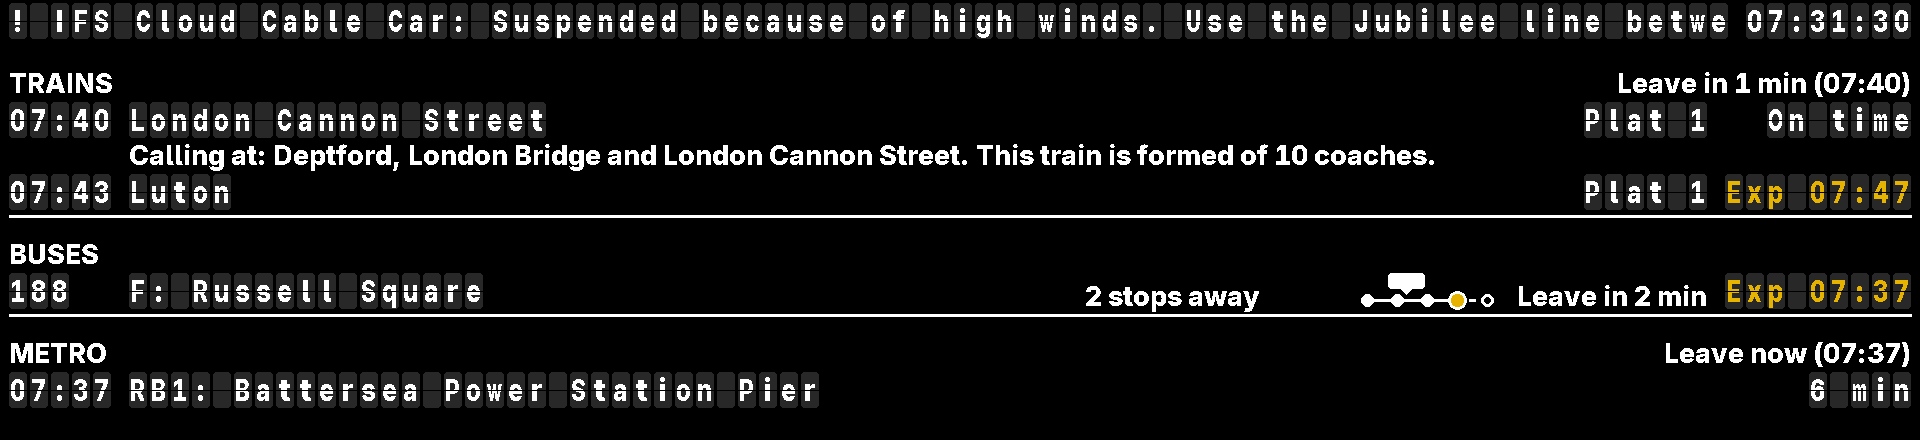
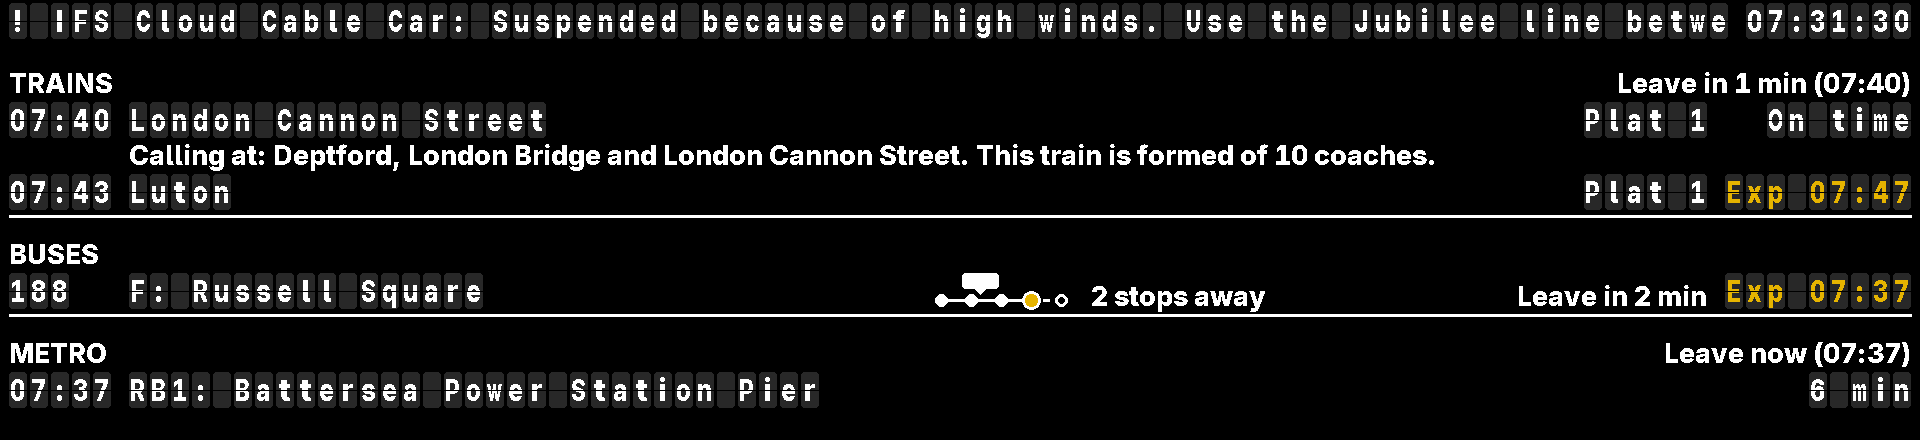
docs(board): describe the little line before the where words, and rebuild the screen pictures
reading-the-board.md says the line comes before the words, how a line's
room is shared, where the little lines line up, what the 7.9" screen
keeps, and the bar screen's stop names and route column in place of the
16-letter cap. The screen pictures with rows are drawn again with
tools/build_doc_images.py; e-paper, bus page, clock and tram pictures are
unchanged. CHANGELOG under Unreleased.

Changed region(s): [[0.4688, 0.6205, 0.6562, 0.7091], [0.6875, 0.6205, 0.7812, 0.7091]]

diff --git a/docs/reading-the-board.md b/docs/reading-the-board.md
@@ -111,7 +111,7 @@ On an HDMI screen only: white letters on dark grey tiles, each split across the 
 
 - `Exp 07:49` and `Delayed` in amber letters, and `Cancelled` in black on amber tiles. A cancelled train isn't on a highlighted bar: its tiles say it.
 - When a row's time, destination, platform or status changes, its tiles flip through to the new letters, as a flap board's do, in half a second. When the first train goes and the rows move up, each row flips to its new departure. The clock and the title change at once.
-- On the 7.9" screen a destination keeps 16 letters beside where its train is; a longer one, such as Manchester Piccadilly, scrolls, as a long notice does. The 11.3" bar screen keeps it whole.
+- On the 7.9" screen a destination keeps 15 letters before the little line of where its train is; a longer one, such as Manchester Piccadilly, scrolls, as a long notice does. The 11.3" bar screen keeps it whole.
 - `! NOT UPDATING` in amber next to TRAINS or BUSES, a rain warning or disruption notice in place of the title, and everything else the [HDMI screen](#the-hdmi-screen) shows, as in the plain look.
 
 ![The split-flap look on the 11.3 inch bar screen](images/screen-bar-flap.png)
@@ -141,7 +141,8 @@ The screen can redraw every second, so it shows a bit more. **What to show** on 
 - On the screen, a bus you can no longer reach on foot loses its leave time, rather than saying "Leave now".
 - **Platforms**, as on the bigger e-paper display.
 - **Calling at**, under the first train, as on a station's own screens: `Calling at: Dinting, Broadbottom, Hattersley, Godley and Manchester Piccadilly. This train is formed of 3 coaches.` It scrolls along its line (see below). **What to show**'s Everything has it and The usual doesn't, so tick **Calling at** if you want it. Stops the train no longer calls at are left out of the list and named after it (`Does not call at Hattersley.`), or alone when it no longer calls at any, the coaches are left unsaid when National Rail doesn't give them, a rail replacement bus says `This is a replacement bus.`, and a ferry `This is a ferry.` A cancelled train has no line. In the station board look it starts under the train's time, above `Leave in 3 min`, in smaller dots (capitals 5 dots tall, not 7), as the leave line under a train is on the 7.9" screen; in the plain, TFT and split-flap looks, under the destination, in smaller type. On the bar screen the station board look leaves out the dotted rule over the bottom line to keep its third bus. To get the calling points, a screen asks National Rail for the board with them, the same request with more in its answer. E-paper doesn't show it: it can't scroll.
-- **Where each train or bus is**, after its destination: in words (`At Dinting`, `3 stops away`, or `On its way, 6 min` and then `Bus in, waiting` for a bus coming in to work a departure from your stop, `Waiting to start` at the same journey's later stops while it is in there), then a little line of its stops, as on the dashboard. Trains say where they are only with a [Service Details key](keys.md#rail-data-marketplace-service-details); without one, only buses do. The line is solid up to your stop, which is the bigger one, and dotted after it; the train or bus is drawn over the line where it is, and not at all while the board doesn't know. The words say it all; the line only backs them up. A row the board knows nothing for, like a cancelled train or a bus with no live position, leaves the space blank.
+- **Where each train or bus is**, after its destination: a little line of its stops, as on the dashboard, then in words (`At Dinting`, `3 stops away`, or `On its way, 6 min` and then `Bus in, waiting` for a bus coming in to work a departure from your stop, `Waiting to start` at the same journey's later stops while it is in there). Trains say where they are only with a [Service Details key](keys.md#rail-data-marketplace-service-details); without one, only buses do. The line is solid up to your stop, which is the bigger one, and dotted after it; the train or bus is drawn over the line where it is, and not at all while the board doesn't know. The words say it all; the line only backs them up. A row the board knows nothing for, like a cancelled train or a bus with no live position, leaves the space blank.
+- **How a line's room is shared:** the words always have room for `3 stops away`; then the destination for a name like `Manchester Piccadilly` (a bus's `Ashton-under-Lyne`); then, on the bar screen, a bus's stop name; then the destination for one like `Heathrow Terminals 2 & 3`, the words for one like `Left Manchester Oxford Road`, and the destination whatever is left. Anything longer than its room scrolls. The little lines sit in one column down the board, except in the station board look on the bar screen, where the trains' and the buses' each sit against their own section's columns. On the 7.9" screen the words have little more than `3 stops away`, so longer ones scroll; in the station board and TFT looks there, lined up with the buses' lines beside their leave times, a destination as long as Manchester Piccadilly scrolls too.
 - In the station board look, a rain warning or disruption notice sits at the bottom left and the clock moves to the right. With both, they sit side by side: the notice on the left, the rain warning beside the clock. A dotted rule sets the bottom line off from the buses, as between trains and buses.
 - **The last bus:** in the hour before the day's last bus from your stops goes, `Last bus 23:05` sits on the bottom line the same way, from the bus timetable. A disruption notice or a rain warning takes its place while there is one. In the plain, TFT and split-flap looks it takes the title's place in the top bar, as they do. E-paper doesn't show it.
 - **Long text scrolls** rather than being cut short with `…`: a destination, the calling-at line, where a train or bus is, a disruption notice or a rain warning too long for its space shows from its start for 2 seconds, moves slowly left (about 3 letters a second, a dot at a time in the station board look) until its end is in view, waits 2 seconds, then starts again. Each stays inside its own space, and text that fits never moves. E-paper can't animate, so it still cuts long text short; so does the screen with **Scrolling text** off on the [General page](settings.md#general) of the settings (`scrolling = false`). The split-flap look's tiles still turn.
@@ -151,7 +152,7 @@ The screen can redraw every second, so it shows a bit more. **What to show** on 
 
 The bar screen shows the same as the 7.9" screen, with one line for each train or bus. In the station board look its text is a third bigger, and `Leave in 3 min` sits on its train's line, between the platform and the status, rather than on a line of its own under it; the plain, TFT and split-flap looks keep their text size and use the extra width. Either way there is room for 3 trains, 3 buses and the clock, or fewer of each with trams too.
 
-Each bus line also names its stop where other boards show its label: `341 Henry Street A Hyde` rather than `341 A Hyde` (in the plain look, rather than `A: Hyde`). The name comes from the bus timetable. It shows alone when none of your other stops has the same name, and with the label when two or more do, as Glossop's two Henry Street stops do. The names line up in a column as wide as the longest of your stops' names, up to about 16 letters; a longer name scrolls. While the board doesn't know a stop's name (buses from TransportAPI, or before the timetable is built), that line shows the label, as before. The 7.9" screen keeps the label: a name there would leave too little room for the destination.
+Each bus line also names its stop where other boards show its label: `341 Henry Street A Hyde` rather than `341 A Hyde` (in the plain look, rather than `A: Hyde`). The name comes from the bus timetable. It shows alone when none of your other stops has the same name, and with the label when two or more do, as Glossop's two Henry Street stops do. The names line up in a column as wide as the longest of your stops' names, as far as the room goes once the destination has room for a name like `Ashton-under-Lyne`; a longer name scrolls. On either screen, the station board look's route number column is as wide as the longest shown, from 3 characters to 4 (`N199`); a longer one scrolls. While the board doesn't know a stop's name (buses from TransportAPI, or before the timetable is built), that line shows the label, as before. The 7.9" screen keeps the label: a name there would leave too little room for the destination.
 
 ![Departures on the 11.3 inch bar screen](images/screen-bar.png)
 

diff --git a/CHANGELOG.md b/CHANGELOG.md
@@ -4,6 +4,12 @@ Notable changes to this project. The format follows [Keep a Changelog](https://k
 
 ## [Unreleased]
 
+### Changed
+
+- On an HDMI screen, each train or bus line shows the little line of its stops straight after the destination, then where it is in words (`3 stops away`, `At Dinting`), then its platform, leave time and status. The words used to come first. The room on a line is shared out in a fixed order: the words get room for `3 stops away`, the destination for `Manchester Piccadilly` (a bus's `Ashton-under-Lyne`), a bus's stop name on the bar screen, then the destination and the words more, so longer stop names and where words fit before they scroll. The bar screen's stop names are no longer held to about 16 letters.
+- The little lines sit in one column down the board in the plain, TFT and split-flap looks and in the station board look on the 7.9" screen. In the station board look on the bar screen, the trains' and the buses' each sit against their own section's columns.
+- In the station board look on an HDMI screen, the leave times stand twice as far from the status, and the where words twice as far from the next column, so the two don't read as one phrase. The bus route column is as wide as the routes shown, 3 to 4 characters, so `201A` and `N199` no longer scroll. E-paper is unchanged.
+
 ## [0.5.1] - 2026-10-21
 
 Smooth scrolling on an HDMI screen: no more hitch once a second.
